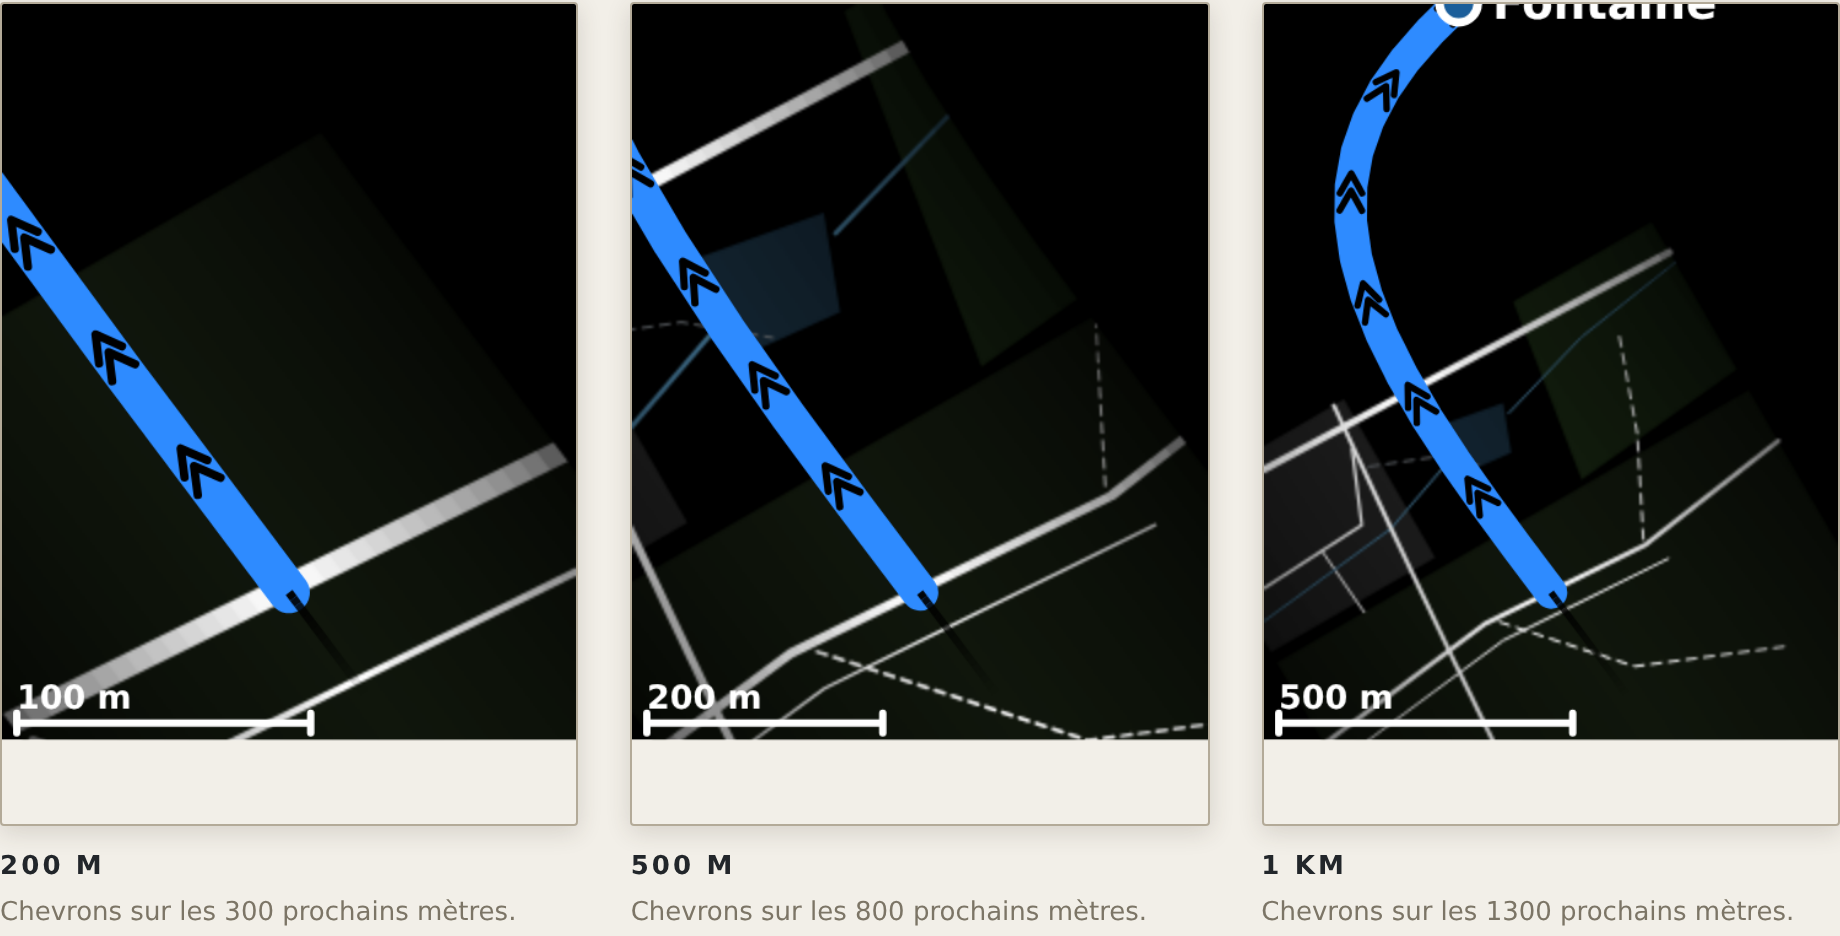
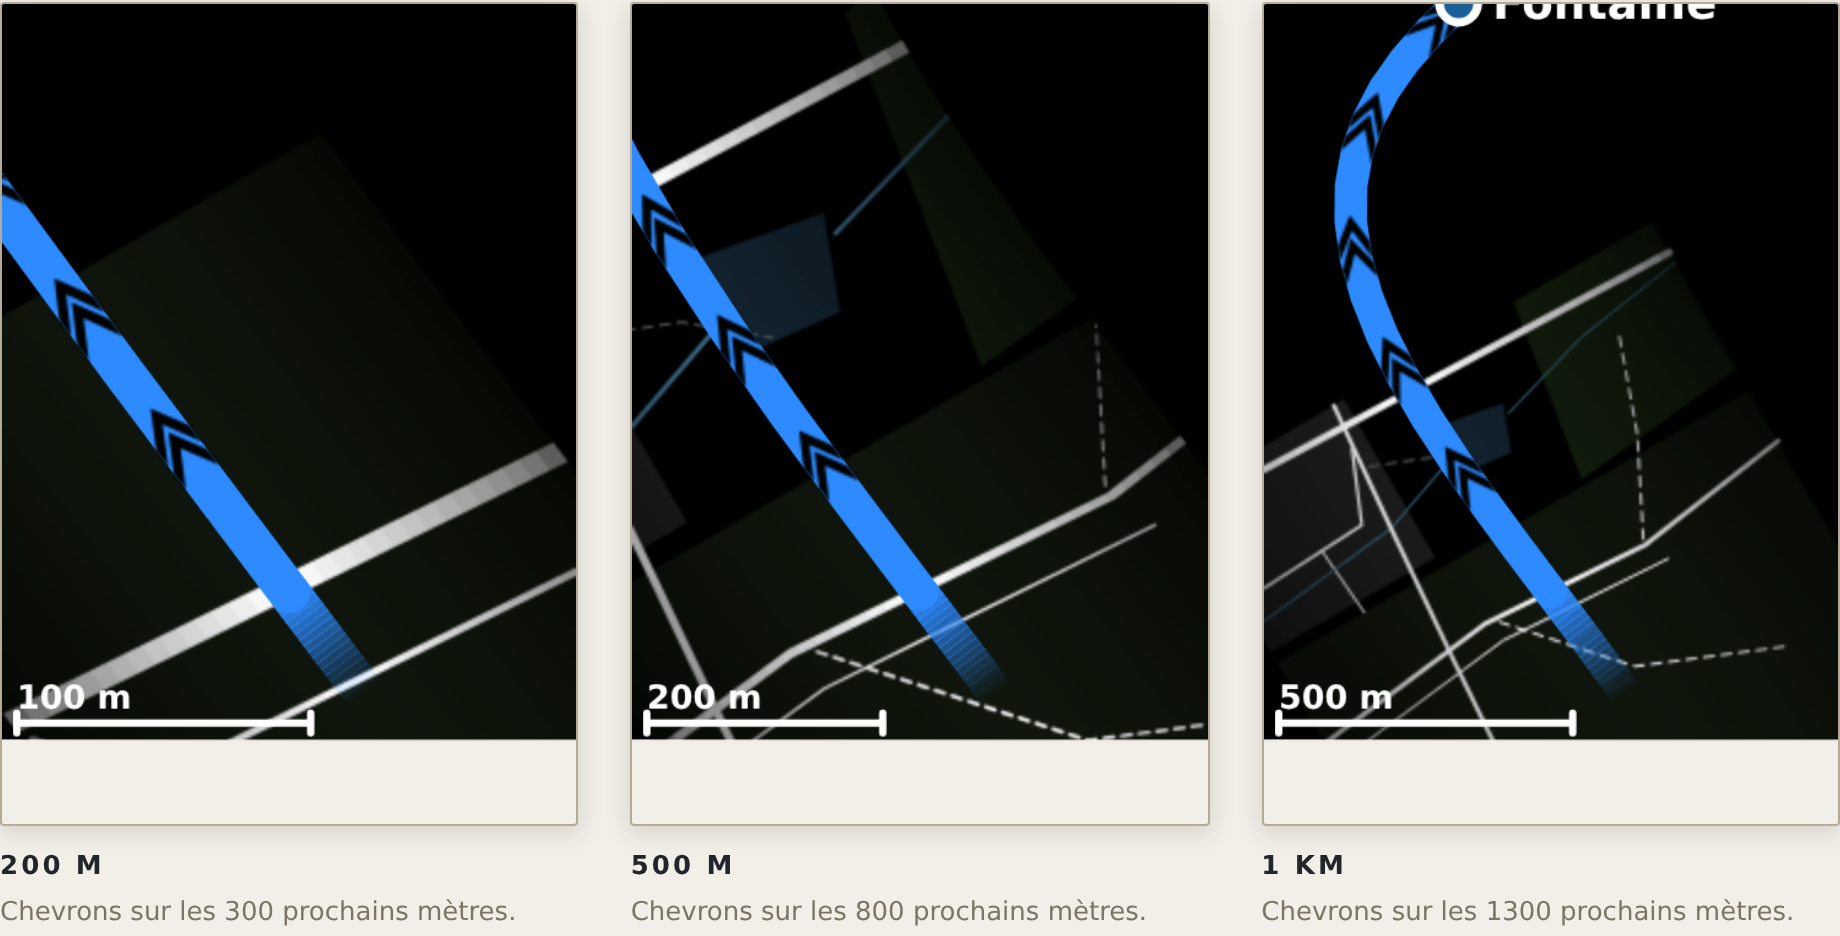
Fait couper les chevrons par le bord du ruban
Le calibre retenu est le deuxième des trois : une paire tous les 66 px,
12 px entre les pointes, trait de 4. Ses branches viennent désormais jusqu'aux
bords du ruban, d'un bout plat.

Elles ne sont pas calculées pour l'atteindre mais dessinées plus larges que
lui, puis coupées par lui. Le calcul ne suffisait pas : le ruban tourne, sa
largeur perpendiculaire au chevron n'est pas la sienne, et le coin du trait
passait outre — le noir débordait alors sur le fond, où il s'y confond.

Les tronçons du fondu arrière se recouvrent d'un demi-pixel : strictement
jointifs et à bout carré, ils laissaient un cheveu entre eux que
l'antialiasing ne couvrait pas, et le ruban s'en trouvait rayé.

Claude-Session: https://claude.ai/code/session_013KNvL6kHkzLQjmszhNZFFm

diff --git a/design/Main.dc.html b/design/Main.dc.html
@@ -5,25 +5,30 @@
 <div style="position: relative; width: 234px; height: 300px; background: #000000; overflow: hidden">
   <svg width="234" height="300" viewBox="0 0 234 300" style="display: block">
     <defs>
-      <filter id="d1-soft" x="-60%" y="-60%" width="220%" height="220%"><feGaussianBlur stdDeviation="12"/></filter>
-      <mask id="d1-couloir">
-        <g filter="url(#d1-soft)">
+      <filter id="e-soft" x="-60%" y="-60%" width="220%" height="220%"><feGaussianBlur stdDeviation="12"/></filter>
+      <mask id="e-couloir"><g filter="url(#e-soft)">
           <path d="M112 306 C114 285 117 262 117 240 C117 212 138 194 145 168 C152 140 136 118 139 92 C142 60 158 40 155 -6" fill="none" stroke="#ffffff" stroke-width="246" stroke-opacity="0.36" stroke-linecap="round" stroke-linejoin="round"/>
           <path d="M112 306 C114 285 117 262 117 240 C117 212 138 194 145 168 C152 140 136 118 139 92 C142 60 158 40 155 -6" fill="none" stroke="#ffffff" stroke-width="190" stroke-opacity="0.281" stroke-linecap="round" stroke-linejoin="round"/>
           <path d="M112 306 C114 285 117 262 117 240 C117 212 138 194 145 168 C152 140 136 118 139 92 C142 60 158 40 155 -6" fill="none" stroke="#ffffff" stroke-width="145" stroke-opacity="0.348" stroke-linecap="round" stroke-linejoin="round"/>
           <path d="M112 306 C114 285 117 262 117 240 C117 212 138 194 145 168 C152 140 136 118 139 92 C142 60 158 40 155 -6" fill="none" stroke="#ffffff" stroke-width="101" stroke-opacity="0.467" stroke-linecap="round" stroke-linejoin="round"/>
           <path d="M112 306 C114 285 117 262 117 240 C117 212 138 194 145 168 C152 140 136 118 139 92 C142 60 158 40 155 -6" fill="none" stroke="#ffffff" stroke-width="61" stroke-opacity="0.625" stroke-linecap="round" stroke-linejoin="round"/>
           <path d="M112 306 C114 285 117 262 117 240 C117 212 138 194 145 168 C152 140 136 118 139 92 C142 60 158 40 155 -6" fill="none" stroke="#ffffff" stroke-width="26" stroke-opacity="1.0" stroke-linecap="round" stroke-linejoin="round"/>
-        </g>
-      </mask>
-      <linearGradient id="d1-trace" x1="0" y1="300" x2="0" y2="0" gradientUnits="userSpaceOnUse">
+      </g></mask>
+      <linearGradient id="e-trace" x1="0" y1="300" x2="0" y2="0" gradientUnits="userSpaceOnUse">
         <stop offset="0%" stop-color="#2E8BFF" stop-opacity="0"/>
         <stop offset="12%" stop-color="#2E8BFF" stop-opacity="0.18"/>
         <stop offset="20%" stop-color="#2E8BFF" stop-opacity="1"/>
         <stop offset="100%" stop-color="#2E8BFF" stop-opacity="1"/>
       </linearGradient>
+      <!-- Le ruban lui-même sert de gabarit : les branches, dessinées plus longues que lui,
+           sont coupées net à ses bords. Le bout est donc plat par construction, et ne peut
+           pas déborder sur le fond dans les virages. -->
+      <mask id="e-ruban">
+        <path d="M112 306 C114 285 117 262 117 240 C117 212 138 194 145 168 C152 140 136 118 139 92 C142 60 158 40 155 -6" fill="none" stroke="#ffffff" stroke-width="17"
+              stroke-linecap="round" stroke-linejoin="round"/>
+      </mask>
     </defs>
-    <g mask="url(#d1-couloir)">
+    <g mask="url(#e-couloir)">
       <g fill="none" stroke="#FFFFFF" stroke-linecap="round">
         <path d="M-12 224 L246 236" stroke-width="9.3"/>
         <path d="M-12 158 L246 132" stroke-width="8"/>
@@ -34,18 +39,18 @@
         <path d="M139 92 L48 64" stroke-width="4" stroke-dasharray="7 5"/>
       </g>
     </g>
-    <!-- Double chevron noir, serré -->
-    <path d="M112 306 C114 285 117 262 117 240 C117 212 138 194 145 168 C152 140 136 118 139 92 C142 60 158 40 155 -6" fill="none" stroke="url(#d1-trace)" stroke-width="17"
+    <path d="M112 306 C114 285 117 262 117 240 C117 212 138 194 145 168 C152 140 136 118 139 92 C142 60 158 40 155 -6" fill="none" stroke="url(#e-trace)" stroke-width="17"
           stroke-linecap="round" stroke-linejoin="round"/>
-    <g>
-      <path d="M127.5 218.0 L126.6 206.2 L117.0 213.1" fill="none" stroke="#000000" stroke-opacity="1.0" stroke-width="3.4" stroke-linecap="round" stroke-linejoin="round"/>
-      <path d="M131.3 210.0 L131.1 198.1 L121.1 204.5" fill="none" stroke="#000000" stroke-opacity="1.0" stroke-width="3.4" stroke-linecap="round" stroke-linejoin="round"/>
-      <path d="M151.9 163.5 L147.1 152.7 L140.4 162.4" fill="none" stroke="#000000" stroke-opacity="1.0" stroke-width="3.4" stroke-linecap="round" stroke-linejoin="round"/>
-      <path d="M152.7 153.5 L146.4 143.5 L141.1 154.0" fill="none" stroke="#000000" stroke-opacity="1.0" stroke-width="3.4" stroke-linecap="round" stroke-linejoin="round"/>
-      <path d="M144.7 105.2 L138.4 95.1 L133.1 105.7" fill="none" stroke="#000000" stroke-opacity="1.0" stroke-width="3.4" stroke-linecap="round" stroke-linejoin="round"/>
-      <path d="M144.3 97.1 L139.6 86.2 L132.8 95.9" fill="none" stroke="#000000" stroke-opacity="1.0" stroke-width="3.4" stroke-linecap="round" stroke-linejoin="round"/>
-      <path d="M154.8 50.1 L151.7 38.7 L143.6 47.2" fill="none" stroke="#000000" stroke-opacity="1.0" stroke-width="3.4" stroke-linecap="round" stroke-linejoin="round"/>
-      <path d="M157.0 41.4 L153.5 30.1 L145.7 39.0" fill="none" stroke="#000000" stroke-opacity="1.0" stroke-width="3.4" stroke-linecap="round" stroke-linejoin="round"/>
+    <g mask="url(#e-ruban)" fill="none" stroke="#000000" stroke-width="3.99"
+       stroke-linecap="butt" stroke-linejoin="miter" stroke-miterlimit="4">
+        <path d="M131.9 219.4 L131.0 197.9 L113.1 209.9"/>
+        <path d="M137.2 208.9 L137.2 187.4 L118.9 198.6"/>
+        <path d="M157.6 153.1 L145.5 135.3 L136.6 154.9"/>
+        <path d="M156.5 139.9 L142.5 123.6 L135.8 144.0"/>
+        <path d="M149.5 90.8 L142.5 70.4 L128.8 87.0"/>
+        <path d="M151.5 79.5 L146.1 58.7 L131.1 74.1"/>
+        <path d="M164.8 25.2 L155.8 5.7 L143.8 23.5"/>
+        <path d="M165.9 12.6 L155.4 -6.2 L144.8 12.5"/>
     </g>
     <g opacity="0.85">
       <line x1="8" y1="288" x2="52" y2="288" stroke="#FFFFFF" stroke-width="2"/>

diff --git a/app/src/main/kotlin/io/github/jmallus/guidage/ui/MapRenderer.kt b/app/src/main/kotlin/io/github/jmallus/guidage/ui/MapRenderer.kt
@@ -366,8 +366,21 @@ object MapRenderer {
             add(here.point)
             addAll(screenPath.subList(here.index, screenPath.size))
         }
-        canvas.drawPath(polyline(ahead), paint)
+        val aheadPath = polyline(ahead)
+        canvas.drawPath(aheadPath, paint)
+
+        // Les chevrons sont dessinés plus larges que le ruban puis coupés par lui : leurs
+        // branches viennent donc exactement à ses bords, d'un bout plat, et ne peuvent pas
+        // déborder sur le fond dans les virages — où le noir s'y confondrait. Calculer la
+        // demi-envergure juste ne suffisait pas : le ruban tourne, sa largeur perpendiculaire
+        // au chevron n'est pas la sienne, et le coin du trait passait outre.
+        val ribbon = Path()
+        paint.getFillPath(aheadPath, ribbon)
+        val clip = canvas.save()
+        canvas.clipPath(ribbon)
         drawChevrons(canvas, area, ahead, width, chevronLimit)
+        canvas.restoreToCount(clip)
+
         drawFadingBehind(canvas, screenPath, here, paint, tint, fadeLength)
     }
 
@@ -457,8 +470,8 @@ object MapRenderer {
             Paint(Paint.ANTI_ALIAS_FLAG).apply {
                 style = Paint.Style.STROKE
                 strokeWidth = stroke
-                strokeCap = Paint.Cap.ROUND
-                strokeJoin = Paint.Join.ROUND
+                strokeCap = Paint.Cap.BUTT
+                strokeJoin = Paint.Join.MITER
                 color = CHEVRON_COLOR
             },
         )
@@ -519,8 +532,11 @@ object MapRenderer {
             val steps = ((length / FADE_STEP).toInt() + 1).coerceAtMost(MAX_FADE_STEPS)
             for (step in 0 until steps) {
                 val t0 = step.toFloat() / steps
-                val t1 = (step + 1).toFloat() / steps
-                val distance = travelled + length * (t0 + t1) / 2f
+                // Un demi-pixel de recouvrement : deux tronçons à bout carré strictement
+                // jointifs laissent un cheveu entre eux, l'antialiasing ne couvrant
+                // complètement ni l'un ni l'autre — le ruban s'en trouvait rayé.
+                val t1 = ((step + 1).toFloat() / steps + SEAM_OVERLAP / length).coerceAtMost(1f)
+                val distance = travelled + length * (t0 + (step + 1).toFloat() / steps) / 2f
                 paint.color = tint
                 paint.alpha = (255f * (1f - distance / fadeLength)).toInt().coerceIn(0, 255)
                 canvas.drawLine(
@@ -690,14 +706,14 @@ object MapRenderer {
     /**
      * Le double chevron, en part de l'épaisseur du ruban.
      *
-     * Trois calibres ont été mis côte à côte à la taille de l'appareil. Plus écartés et plus
-     * gras, ils débordent du bleu dans les virages ; plus fins, ils manquent de corps sur
-     * quinze millimètres de large. Ceux-ci restent contenus dans le ruban partout.
+     * Trois calibres ont été mis côte à côte à la taille de l'appareil ; celui-ci a été
+     * retenu. La demi-envergure vaut plus que la demi-largeur du ruban : c'est voulu, le
+     * ruban servant de gabarit qui coupe ce qui dépasse.
      */
-    private const val CHEVRON_SPACING_RATIO = 3.41f
-    private const val CHEVRON_GAP_RATIO = 0.53f
-    private const val CHEVRON_SIZE_RATIO = 0.38f
-    private const val CHEVRON_STROKE_RATIO = 0.20f
+    private const val CHEVRON_SPACING_RATIO = 3.88f
+    private const val CHEVRON_GAP_RATIO = 0.71f
+    private const val CHEVRON_SIZE_RATIO = 0.689f
+    private const val CHEVRON_STROKE_RATIO = 0.235f
 
     /** Recul des branches derrière la pointe, et leur écartement, en part de la taille. */
     private const val CHEVRON_SWEEP = 1.6f
@@ -708,6 +724,9 @@ object MapRenderer {
 
     /** Longueur d'un tronçon du fondu, et garde-fou contre un segment démesuré. */
     private const val FADE_STEP = 3f
+
+    /** Recouvrement entre deux tronçons du fondu, en pixels. */
+    private const val SEAM_OVERLAP = 0.5f
     private const val MAX_FADE_STEPS = 24
 
     /** Rouge du hors-itinéraire : celui du Karoo, pour dire la même chose de la même façon. */

diff --git a/docs/planches.html b/docs/planches.html
@@ -988,8 +988,8 @@ const SAMPLE_BAND = {start:3200, end:5200, position:3400, label:"1/2 — 1,48 km
 const BEHIND_FADE_FRACTION = 0.17, FADE_STEP = 3, MAX_FADE_STEPS = 24;
 // Le double chevron noir, en part de l'épaisseur du ruban. Calibre retenu sur planche :
 // plus écarté et plus gras il déborde du bleu dans les virages, plus fin il manque de corps.
-const CHEVRON_SPACING_RATIO = 3.41, CHEVRON_GAP_RATIO = 0.53;
-const CHEVRON_SIZE_RATIO = 0.38, CHEVRON_STROKE_RATIO = 0.20;
+const CHEVRON_SPACING_RATIO = 3.88, CHEVRON_GAP_RATIO = 0.71;
+const CHEVRON_SIZE_RATIO = 0.689, CHEVRON_STROKE_RATIO = 0.235;
 const CHEVRON_SWEEP = 1.6, CHEVRON_ARM = 0.9, CHEVRON_COLOR = "#000000";
 const POI_COLOR = "#1B5E9A";
 
@@ -1141,9 +1141,13 @@ function drawMap(ctx, area, model){
       const tipX = x + ux*size, tipY = y + uy*size;
       const bX = tipX - ux*size*CHEVRON_SWEEP, bY = tipY - uy*size*CHEVRON_SWEEP;
       const aX = px*size*CHEVRON_ARM, aY = py*size*CHEVRON_ARM;
-      ctx.moveTo(bX+aX, bY+aY); ctx.lineTo(tipX, tipY); ctx.lineTo(bX-aX, bY-aY);
+      cctx.moveTo(bX+aX, bY+aY); cctx.lineTo(tipX, tipY); cctx.lineTo(bX-aX, bY-aY);
     };
-    ctx.beginPath();
+    const layer = document.createElement("canvas");
+    layer.width = Math.ceil(area.w); layer.height = Math.ceil(area.h);
+    const cctx = layer.getContext("2d");
+    cctx.translate(-area.x, -area.y);
+    cctx.beginPath();
     // Les deux pointes d'une paire sont posées à l'abscisse curviligne : le long du segment
     // courant, la seconde disparaissait dès qu'elle tombait au-delà d'un sommet.
     for (let s0 = spacing; s0 <= Math.min(limit, total); s0 += spacing) {
@@ -1155,7 +1159,19 @@ function drawMap(ctx, area, model){
         put(at[0], at[1], at[2], at[3]);
       }
     }
-    ctx.lineWidth = stroke; ctx.strokeStyle = CHEVRON_COLOR; ctx.stroke();
+    cctx.lineWidth = stroke; cctx.strokeStyle = CHEVRON_COLOR;
+    cctx.lineCap = "butt"; cctx.lineJoin = "miter"; cctx.miterLimit = 4;
+    cctx.stroke();
+    // Le ruban sert de gabarit : ce qui dépasse est coupé, les branches viennent donc
+    // exactement à ses bords, d'un bout plat, sans déborder sur le fond dans les virages.
+    cctx.globalCompositeOperation = "destination-in";
+    cctx.lineWidth = width; cctx.lineCap = "round"; cctx.lineJoin = "round";
+    cctx.strokeStyle = "#000000";
+    cctx.beginPath();
+    remaining.forEach((q,i) => i ? cctx.lineTo(q.x,q.y) : cctx.moveTo(q.x,q.y));
+    cctx.stroke();
+    ctx.drawImage(layer, area.x, area.y);
+    ctx.lineCap = "round"; ctx.lineJoin = "round";
   }
 
   // La part faite s'éteint le long du tracé, non en hauteur d'écran : sur une épingle, la
@@ -1177,8 +1193,11 @@ function drawMap(ctx, area, model){
       }
       const steps = Math.min(Math.floor(len/FADE_STEP) + 1, MAX_FADE_STEPS);
       for (let k = 0; k < steps; k++) {
-        const t0 = k/steps, t1 = (k+1)/steps;
-        const d = travelled + len*(t0+t1)/2;
+        const t0 = k/steps, tn = (k+1)/steps;
+        // Un demi-pixel de recouvrement : deux tronçons à bout carré jointifs laissent un
+        // cheveu entre eux, et le ruban s'en trouve rayé.
+        const t1 = Math.min(1, tn + 0.5/len);
+        const d = travelled + len*(t0+tn)/2;
         ctx.globalAlpha = Math.max(0, 1 - d/fadeLength);
         ctx.beginPath();
         ctx.moveTo(toX + (fromX-toX)*t0, toY + (fromY-toY)*t0);

diff --git a/docs/planches.md b/docs/planches.md
@@ -16,7 +16,7 @@ sont ceux des sources.
 > en Roboto, plus étroit que la fonte système d'un navigateur, et les libellés — dont le corps
 > s'ajuste à la largeur disponible — sortent donc un peu plus petits ici que sur l'appareil.
 
-Version reproduite : **`6e874b8`**.
+Version reproduite : **`2d60960`**.
 
 ## La page interactive
 
@@ -54,7 +54,7 @@ tourner au bon carrefour.
 | --- | --- | --- |
 | **A** | Bandeau d'effort | Vitesse, cadence, puissance sur 3 secondes. Vitesse et puissance prennent un aplat : vert au-dessus de la moyenne de la sortie, et la couleur de la zone réglée dans le Karoo. |
 | **B** | Transmission | Plateaux à gauche, pignons à droite, même pas d'un peigne à l'autre. Les barres suivent la denture : le peigne des plateaux monte, celui des pignons descend, le rapport n° 1 étant le petit plateau mais le grand pignon. La barre allumée est en blanc — c'est un chiffre qu'on lit, pas un voyant. Un mono-plateau n'affiche que la cassette. |
-| **C** | Minicarte | Cap en haut, coureur fixe aux quatre cinquièmes de la hauteur. Fond noir, voies blanches dont le rang se lit à la seule épaisseur, et qui s'éteignent vers le noir en s'écartant de l'itinéraire : la carte ne montre qu'un couloir autour de ce qu'on va faire. Le tracé est un ruban bleu, plein devant le coureur et s'effaçant derrière lui, jalonné de doubles chevrons noirs bornés aux prochaines centaines de mètres. Pas de flèche : le ruban plein dit déjà où l'on est. Le tracé se coupe à l'aplomb du coureur, projeté sur le segment et non sur le sommet le plus proche — sans quoi la coupure attendait le coureur puis sautait au sommet suivant. Hors itinéraire, il passe au rouge. |
+| **C** | Minicarte | Cap en haut, coureur fixe aux quatre cinquièmes de la hauteur. Fond noir, voies blanches dont le rang se lit à la seule épaisseur, et qui s'éteignent vers le noir en s'écartant de l'itinéraire : la carte ne montre qu'un couloir autour de ce qu'on va faire. Le tracé est un ruban bleu, plein devant le coureur et s'effaçant derrière lui, jalonné de doubles chevrons noirs, coupés aux bords du ruban et bornés aux prochaines centaines de mètres. Pas de flèche : le ruban plein dit déjà où l'on est. Le tracé se coupe à l'aplomb du coureur, projeté sur le segment et non sur le sommet le plus proche — sans quoi la coupure attendait le coureur puis sautait au sommet suivant. Hors itinéraire, il passe au rouge. |
 | **D** | Fréquence cardiaque | Aplat de zone, encre noire ou blanche selon le contraste perceptuel APCA : le jaune tempo réclame du noir, le rouge anaérobie non. Le numéro de zone est écrit à gauche de la valeur : l'aplat le disait déjà, mais de mémoire seulement — et le saumon de la zone 4 tient de près à l'orange de la zone 5. La place était libre, la valeur étant alignée à droite. |
 | **E** | Distance et pente | Une seule taille de chiffres pour ce rang et celui du dessus : sans cela « 96,9 » s'écrirait plus petit que « 4 » et l'œil ne saurait plus laquelle est laquelle. |
 | **F** | Fin de parcours | Ce qu'il reste et l'heure d'arrivée estimée — les deux seules valeurs qu'on regarde quand on ne regarde plus rien d'autre. |
